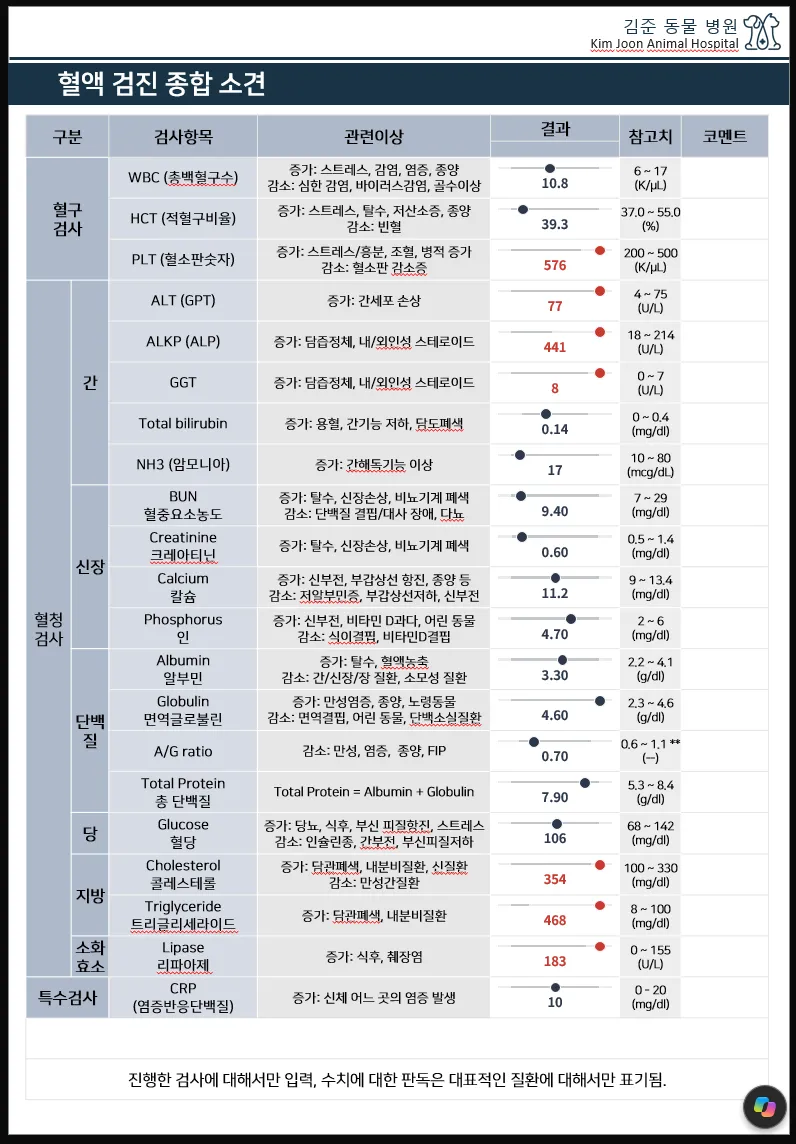
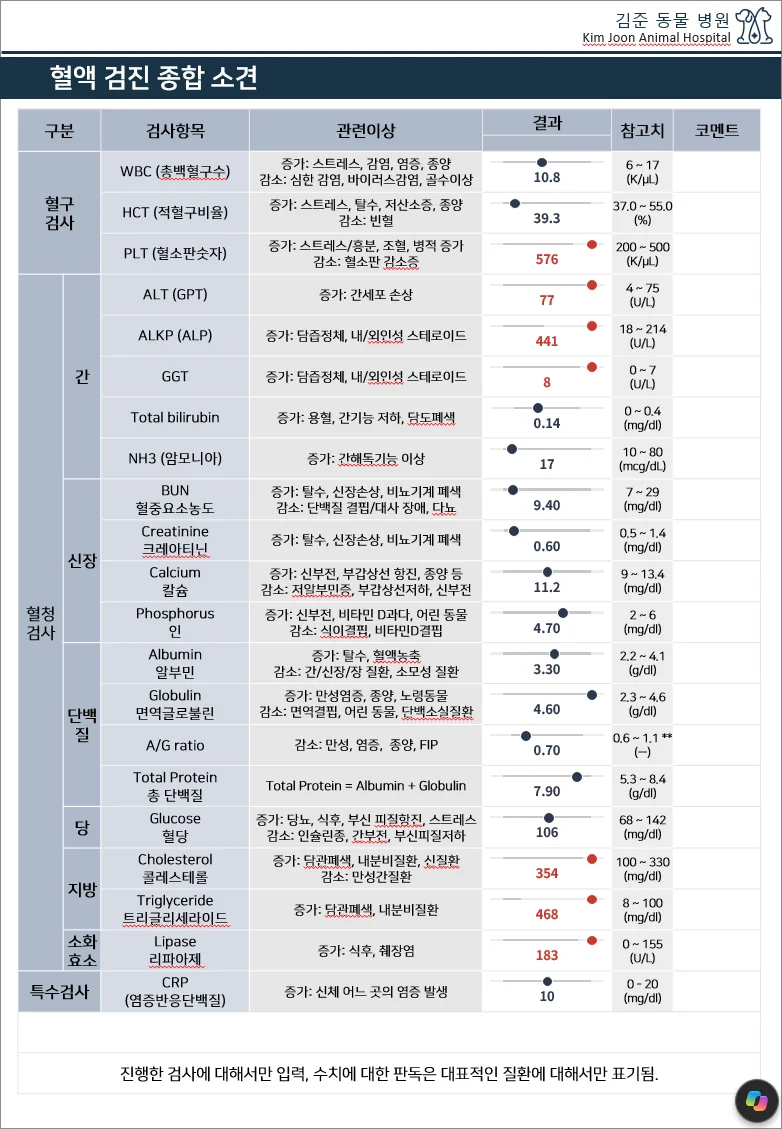
Link main-page story photos to subpages; crop black edges on vet images
- Each story photo on the main page now opens its case-study page
  (subtle hover zoom, keyboard focus ring, specific link labels)
- vet-after / vet-renamer / vet-before re-exported from originals with
  the stray black frame trimmed; width/height attributes updated

Claude-Session: https://claude.ai/code/session_012uWZqp1QyeqqvmoT9HGPQW

Changed region(s): [[0.0, 0.0, 1.0, 1.0], [0.1535, 0.93, 0.8593, 0.961], [0.0614, 0.155, 0.0921, 0.217]]

diff --git a/index.html b/index.html
@@ -14,7 +14,7 @@
   <link rel="preconnect" href="https://fonts.googleapis.com">
   <link rel="preconnect" href="https://fonts.gstatic.com" crossorigin>
   <link rel="stylesheet" href="https://fonts.googleapis.com/css2?family=Noto+Serif+KR:wght@600;700&family=Noto+Sans+KR:wght@400;500;700&display=swap">
-  <link rel="stylesheet" href="/assets/css/style.css?v=12">
+  <link rel="stylesheet" href="/assets/css/style.css?v=13">
 </head>
 <body id="top">
   <a class="skip" href="#main">본문으로 건너뛰기</a>
@@ -41,7 +41,7 @@
         <div class="container">
           <p class="kicker">이야기 1 · 동물병원</p>
           <h2>보고서 한 장에 90분 걸리던 병원</h2>
-          <img class="photo top" src="/assets/img/vet-after.webp" alt="자동으로 만들어진 혈액 검사 보고서" width="796" height="1144" loading="lazy">
+          <a class="photo-link" href="/projects/vet.html" aria-label="동물병원 이야기 자세히 보기"><img class="photo top" src="/assets/img/vet-after.webp" alt="자동으로 만들어진 혈액 검사 보고서" width="782" height="1129" loading="lazy"></a>
           <div class="cols">
             <div><h3>어떤 문제가 있었나</h3><p>수의사 한 분이 보호자용 보고서를 만드느라 늘 시간에 쫓겼습니다. 검사 수치를 일일이 옮겨 적어야 했습니다.</p></div>
             <div><h3>어떻게 풀었나</h3><p>검사 결과를 읽어 보고서에 수치·그래프·사진을 자동으로 채우는 프로그램을 만들었습니다. 사진은 끌어다 놓기만 하면 됩니다.</p></div>
@@ -55,7 +55,7 @@
         <div class="container">
           <p class="kicker">이야기 2 · 라이브 방송</p>
           <h2>방송 전 준비에 2시간 반이 걸리던 현장</h2>
-          <img class="photo" src="/assets/img/live-4.webp" alt="모션캡처 스튜디오 현장" width="1600" height="900" loading="lazy">
+          <a class="photo-link" href="/projects/live.html" aria-label="라이브 방송 이야기 자세히 보기"><img class="photo" src="/assets/img/live-4.webp" alt="모션캡처 스튜디오 현장" width="1600" height="900" loading="lazy"></a>
           <div class="cols">
             <div><h3>어떤 문제가 있었나</h3><p>연기자의 몸 정보가 촬영할 때마다 새로 만들어져, 캐릭터 연결 준비를 미리 해둘 수 없었습니다.</p></div>
             <div><h3>어떻게 풀었나</h3><p>중간에 ‘다리’ 역할을 하는 뼈대를 두어, 미리 해둔 설정을 매번 그대로 이어받게 만들었습니다.</p></div>
@@ -69,7 +69,7 @@
         <div class="container">
           <p class="kicker">이야기 3 · 모션캡처 팀</p>
           <h2>두 사람이 하던 일을 혼자 맡게 된 날</h2>
-          <img class="photo" src="/assets/img/mocap-3.webp" alt="모션캡처 스튜디오 전경" width="1600" height="1200" loading="lazy">
+          <a class="photo-link" href="/projects/mocap.html" aria-label="모션캡처 팀 이야기 자세히 보기"><img class="photo" src="/assets/img/mocap-3.webp" alt="모션캡처 스튜디오 전경" width="1600" height="1200" loading="lazy"></a>
           <div class="cols">
             <div><h3>어떤 문제가 있었나</h3><p>같은 일을 하던 동료가 퇴사하면서, 반복적인 데이터 정리 업무를 혼자 감당해야 했습니다.</p></div>
             <div><h3>어떻게 풀었나</h3><p>모든 업무 과정을 적어 놓고, 시간이 가장 많이 드는 것부터 하나씩 자동으로 바꿨습니다.</p></div>
@@ -99,6 +99,6 @@
     </div>
   </footer>
   <a class="to-top" href="#top" aria-label="맨 위로 가기">↑ 위로 가기</a>
-  <script src="/assets/js/main.js?v=12" defer></script>
+  <script src="/assets/js/main.js?v=13" defer></script>
 </body>
 </html>

diff --git a/projects/vet.html b/projects/vet.html
@@ -11,7 +11,7 @@
   <link rel="preconnect" href="https://fonts.googleapis.com">
   <link rel="preconnect" href="https://fonts.gstatic.com" crossorigin>
   <link rel="stylesheet" href="https://fonts.googleapis.com/css2?family=Noto+Serif+KR:wght@600;700&family=Noto+Sans+KR:wght@400;500;700&display=swap">
-  <link rel="stylesheet" href="/assets/css/style.css?v=12">
+  <link rel="stylesheet" href="/assets/css/style.css?v=13">
 </head>
 <body id="top">
   <a class="skip" href="#main">본문으로 건너뛰기</a>
@@ -37,13 +37,13 @@
           <div class="tag">전에는</div>
           <div class="num">90분</div>
           <p>검사 수치를 하나하나 옮겨 적고, 보고서에는 표만 있고 그래프가 없었습니다.</p>
-          <button type="button" data-lightbox="전 — 기존 매크로로 만든 보고서"><img src="/assets/img/vet-before.webp" alt="기존의 표 형식 보고서" width="930" height="775" loading="lazy"></button>
+          <button type="button" data-lightbox="전 — 기존 매크로로 만든 보고서"><img src="/assets/img/vet-before.webp" alt="기존의 표 형식 보고서" width="924" height="774" loading="lazy"></button>
         </div>
         <div class="side after">
           <div class="tag">지금은</div>
           <div class="num">15분</div>
           <p>결과를 넣으면 그래프까지 들어간 보고서가 자동으로 완성됩니다.</p>
-          <button type="button" data-lightbox="후 — 템플릿 기반 자동 생성 보고서"><img src="/assets/img/vet-after.webp" alt="그래프가 들어간 자동 생성 보고서" width="796" height="1144" loading="lazy"></button>
+          <button type="button" data-lightbox="후 — 템플릿 기반 자동 생성 보고서"><img src="/assets/img/vet-after.webp" alt="그래프가 들어간 자동 생성 보고서" width="782" height="1129" loading="lazy"></button>
         </div>
       </div>
 
@@ -112,7 +112,7 @@
         </div>
         <div class="r-media">
           <figure>
-          <button type="button" data-lightbox="사진 이름 변경 도구 — 윈도우 폴더에서 끌어다 놓기로 작동"><img src="/assets/img/vet-renamer.webp" alt="태그 칸에 사진을 끌어다 놓는 사진 이름 변경 도구" width="812" height="646" loading="lazy"></button>
+          <button type="button" data-lightbox="사진 이름 변경 도구 — 윈도우 폴더에서 끌어다 놓기로 작동"><img src="/assets/img/vet-renamer.webp" alt="태그 칸에 사진을 끌어다 놓는 사진 이름 변경 도구" width="802" height="632" loading="lazy"></button>
           <figcaption>사진 이름 변경 도구 — 끌어다 놓기로 작동</figcaption>
         </figure>
         </div>
@@ -128,6 +128,6 @@
   <dialog class="lightbox" aria-label="이미지 확대 보기"><div class="lb-inner"><img alt=""></div><button class="lb-close" type="button" aria-label="닫기">✕</button><div class="lb-cap"></div></dialog>
   <footer><div class="container"><span>© 2026 김윤 Kim Yoon</span><a href="/">처음으로</a></div></footer>
   <a class="to-top" href="#top" aria-label="맨 위로 가기">↑ 위로 가기</a>
-  <script src="/assets/js/main.js?v=12" defer></script>
+  <script src="/assets/js/main.js?v=13" defer></script>
 </body>
 </html>

diff --git a/projects/live.html b/projects/live.html
@@ -11,7 +11,7 @@
   <link rel="preconnect" href="https://fonts.googleapis.com">
   <link rel="preconnect" href="https://fonts.gstatic.com" crossorigin>
   <link rel="stylesheet" href="https://fonts.googleapis.com/css2?family=Noto+Serif+KR:wght@600;700&family=Noto+Sans+KR:wght@400;500;700&display=swap">
-  <link rel="stylesheet" href="/assets/css/style.css?v=12">
+  <link rel="stylesheet" href="/assets/css/style.css?v=13">
 </head>
 <body id="top">
   <a class="skip" href="#main">본문으로 건너뛰기</a>
@@ -128,6 +128,6 @@
   <dialog class="lightbox" aria-label="이미지 확대 보기"><div class="lb-inner"><img alt=""></div><button class="lb-close" type="button" aria-label="닫기">✕</button><div class="lb-cap"></div></dialog>
   <footer><div class="container"><span>© 2026 김윤 Kim Yoon</span><a href="/">처음으로</a></div></footer>
   <a class="to-top" href="#top" aria-label="맨 위로 가기">↑ 위로 가기</a>
-  <script src="/assets/js/main.js?v=12" defer></script>
+  <script src="/assets/js/main.js?v=13" defer></script>
 </body>
 </html>

diff --git a/projects/mocap.html b/projects/mocap.html
@@ -11,7 +11,7 @@
   <link rel="preconnect" href="https://fonts.googleapis.com">
   <link rel="preconnect" href="https://fonts.gstatic.com" crossorigin>
   <link rel="stylesheet" href="https://fonts.googleapis.com/css2?family=Noto+Serif+KR:wght@600;700&family=Noto+Sans+KR:wght@400;500;700&display=swap">
-  <link rel="stylesheet" href="/assets/css/style.css?v=12">
+  <link rel="stylesheet" href="/assets/css/style.css?v=13">
 </head>
 <body id="top">
   <a class="skip" href="#main">본문으로 건너뛰기</a>
@@ -112,6 +112,6 @@
   <dialog class="lightbox" aria-label="이미지 확대 보기"><div class="lb-inner"><img alt=""></div><button class="lb-close" type="button" aria-label="닫기">✕</button><div class="lb-cap"></div></dialog>
   <footer><div class="container"><span>© 2026 김윤 Kim Yoon</span><a href="/">처음으로</a></div></footer>
   <a class="to-top" href="#top" aria-label="맨 위로 가기">↑ 위로 가기</a>
-  <script src="/assets/js/main.js?v=12" defer></script>
+  <script src="/assets/js/main.js?v=13" defer></script>
 </body>
 </html>

diff --git a/assets/css/style.css b/assets/css/style.css
@@ -231,3 +231,10 @@ footer .container { display: flex; flex-wrap: wrap; justify-content: space-betwe
 .r-media button:focus-visible { outline: 3px solid var(--accent); outline-offset: 3px; border-radius: 8px; }
 .r-media img { display: block; width: 100%; height: auto; margin: 0 auto; border: 0; border-radius: 8px; }
 .r-media figcaption { font-size: 14px; color: var(--text-3); margin-top: 6px; }
+
+/* ===== Main page: story photos link to their subpage ===== */
+.photo-link { display: block; border-radius: 6px; overflow: hidden; }
+.photo-link .photo { transition: transform .35s ease, opacity .2s; }
+.photo-link:hover .photo { transform: scale(1.015); opacity: .94; }
+.photo-link:focus-visible { outline: 3px solid var(--accent); outline-offset: 3px; }
+@media (prefers-reduced-motion: reduce) { .photo-link .photo { transition: none; } .photo-link:hover .photo { transform: none; } }

diff --git a/resume.html b/resume.html
@@ -10,7 +10,7 @@
   <link rel="preconnect" href="https://fonts.googleapis.com">
   <link rel="preconnect" href="https://fonts.gstatic.com" crossorigin>
   <link rel="stylesheet" href="https://fonts.googleapis.com/css2?family=Noto+Serif+KR:wght@600;700&family=Noto+Sans+KR:wght@400;500;700&display=swap">
-  <link rel="stylesheet" href="/assets/css/style.css?v=12">
+  <link rel="stylesheet" href="/assets/css/style.css?v=13">
 </head>
 <body id="top">
   <a class="skip" href="#main">본문으로 건너뛰기</a>
@@ -105,6 +105,6 @@
     </div>
   </footer>
   <a class="to-top" href="#top" aria-label="맨 위로 가기">↑ 위로 가기</a>
-  <script src="/assets/js/main.js?v=12" defer></script>
+  <script src="/assets/js/main.js?v=13" defer></script>
 </body>
 </html>
